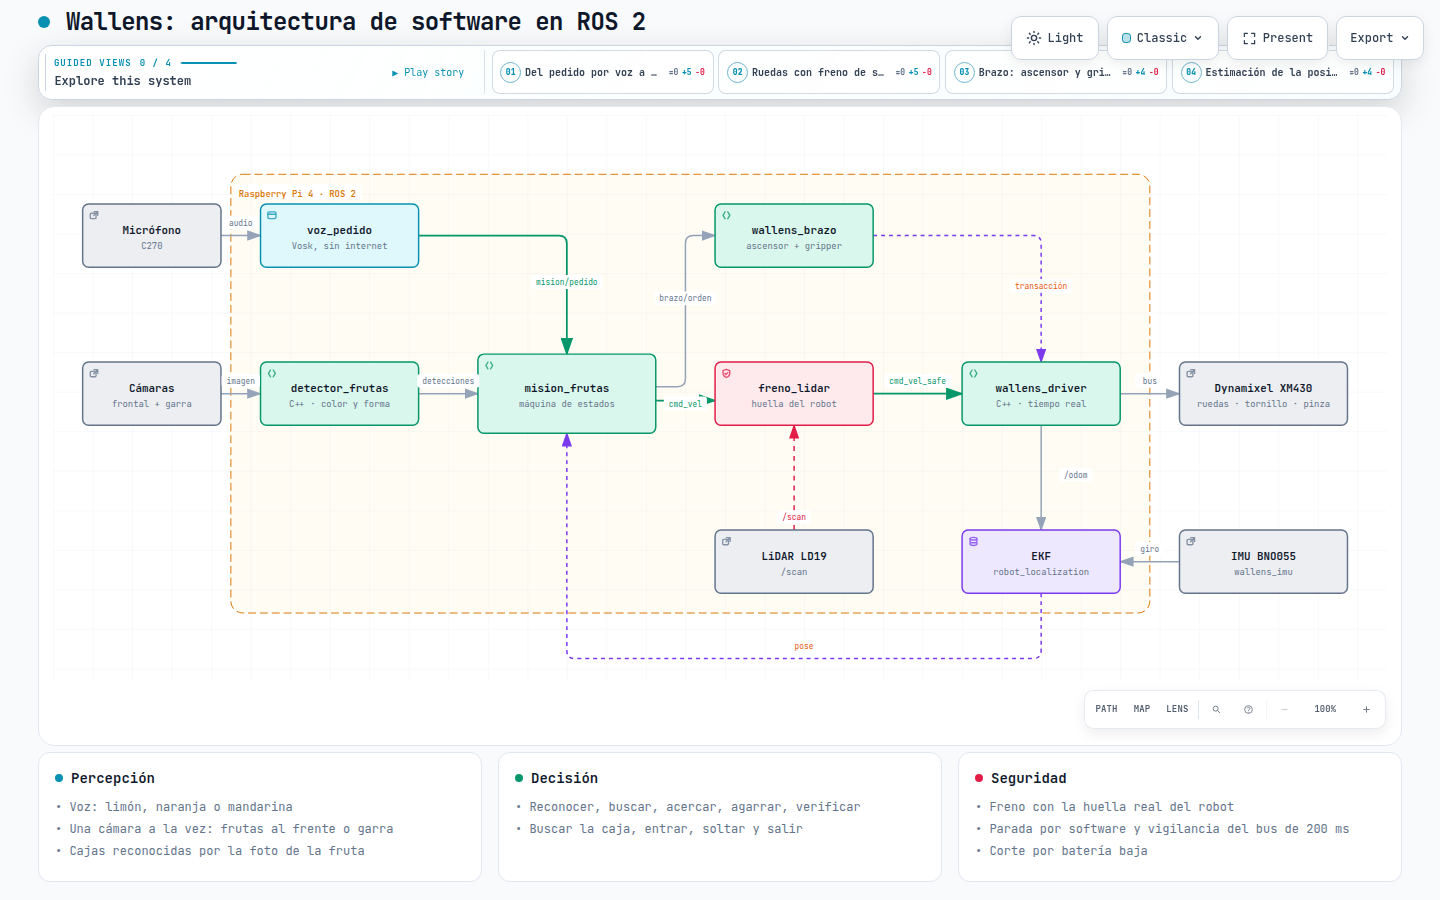
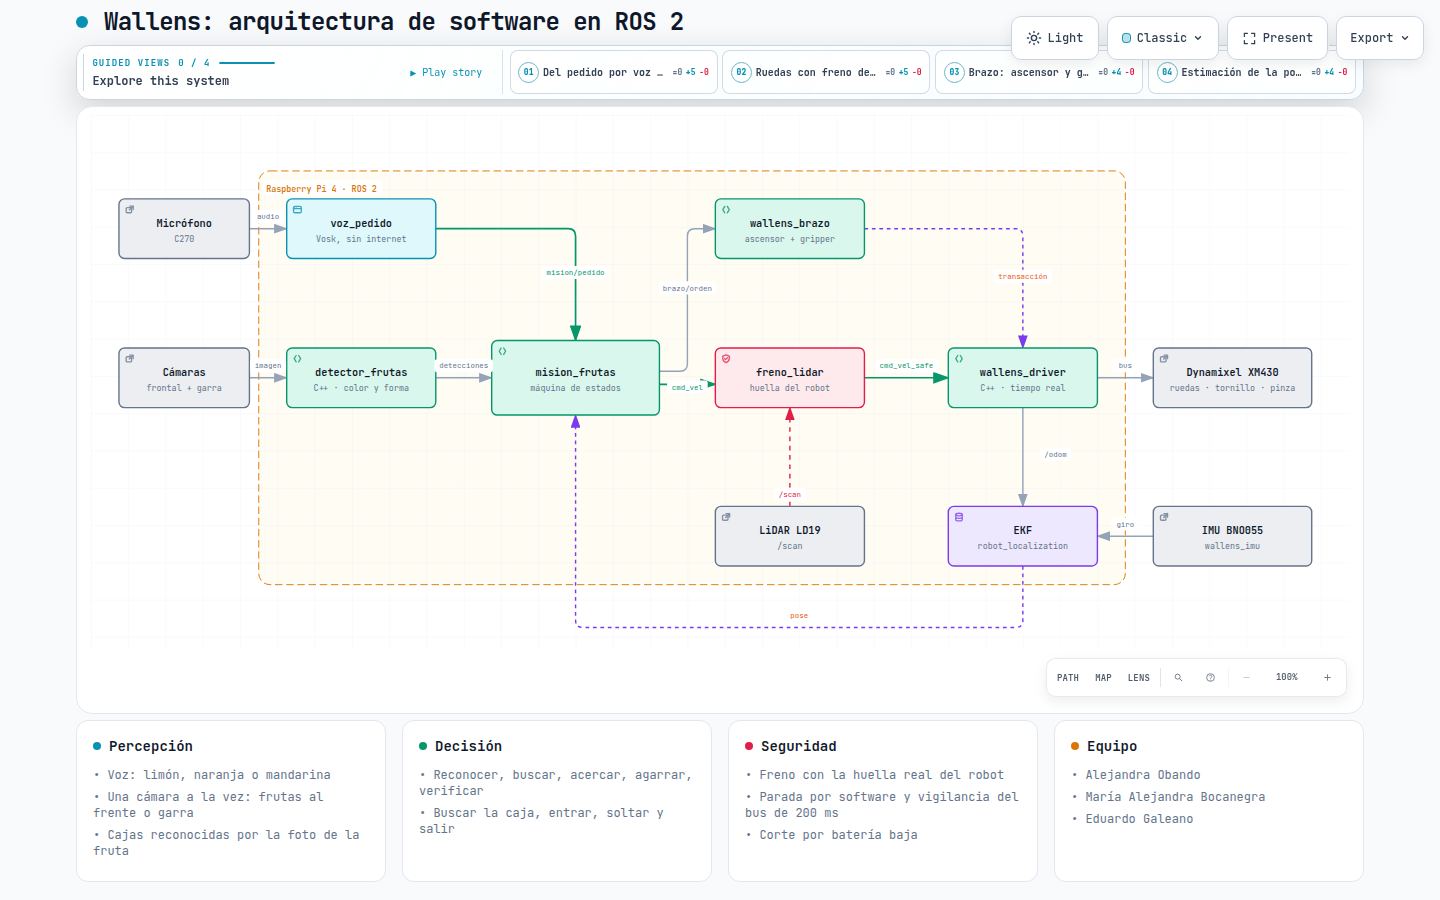
Docs: nombres del equipo en el diagrama de arquitectura

diff --git a/docs/arquitectura/arquitectura-software.html b/docs/arquitectura/arquitectura-software.html
@@ -5599,6 +5599,18 @@ OTHER DEALINGS IN THE FONT SOFTWARE.
           <li>&bull; Corte por batería baja</li>
         </ul>
       </div>
+
+      <div class="card">
+        <div class="card-header">
+          <div class="card-dot amber"></div>
+          <h3>Equipo</h3>
+        </div>
+        <ul>
+          <li>&bull; Alejandra Obando</li>
+          <li>&bull; María Alejandra Bocanegra</li>
+          <li>&bull; Eduardo Galeano</li>
+        </ul>
+      </div>
     </div>
 
   </div>
